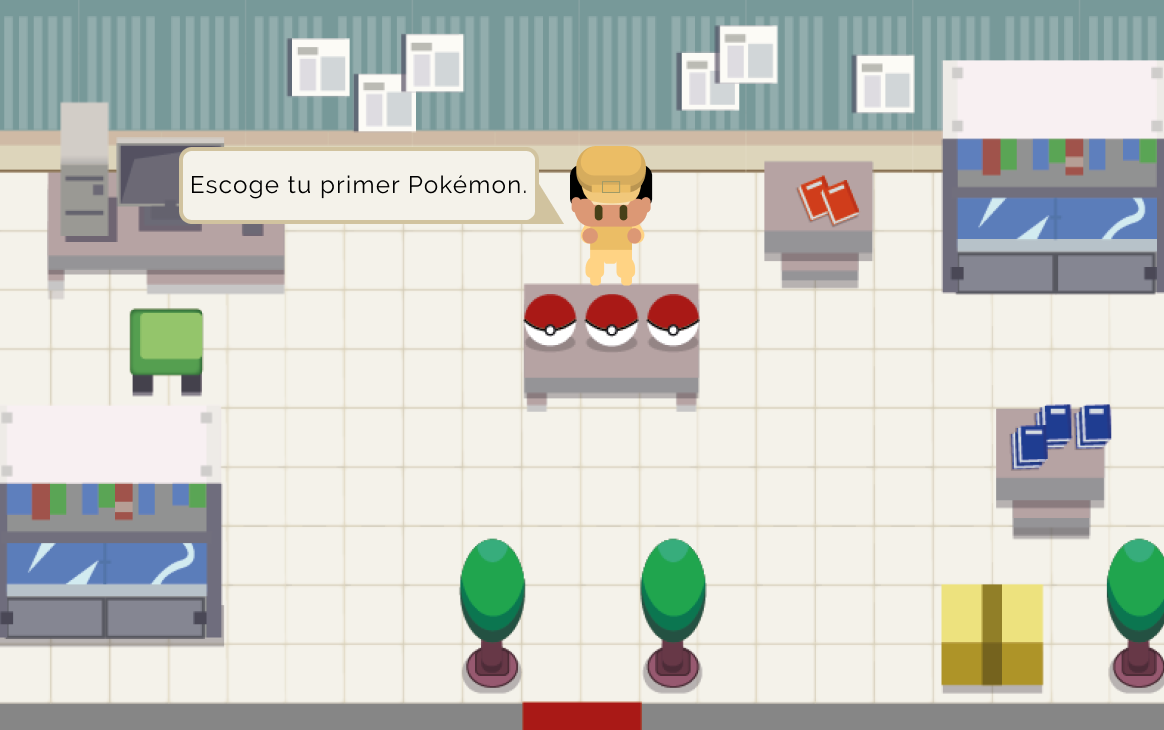
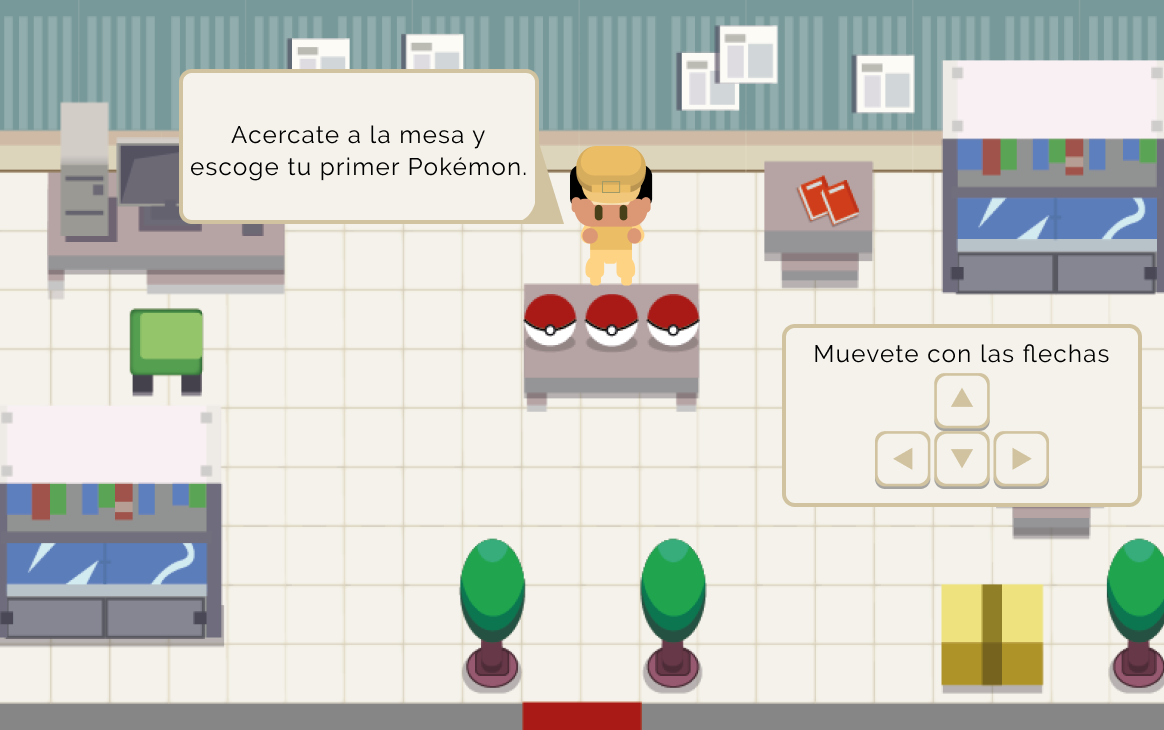
el jugador debe acercarse a la  mesa

Changed region(s): [[0.6495, 0.4219, 0.9897, 0.6932], [0.1546, 0.0904, 0.4948, 0.3014]]

diff --git a/src/Model/Juego.java b/src/Model/Juego.java
@@ -45,10 +45,8 @@ public class Juego {
 
 	Bueno perso;
 	PImage pantInicio, inicioBlanco, inicioR, pantRegistro, pantLab, pantElige,pokeSalir, 
-		   pantCampo, pantBatalla, pantPokedex,aceptar,pokebolita,charmanderF,SnivyF,squirtleF,
+		   pantCampo, pantBatalla, pantPokedex,aceptar,pokebolita,charmanderF,SnivyF,squirtleF, pokebola,escribeNombre,ataqueR;
 
-		   pokebola,escribeNombre;
-   pokebola, ataqueR;
 
 	
 	ControlP5 control;
@@ -237,7 +235,12 @@ public class Juego {
 				app.image(pokebolita,353+45+45,195,50,50);
 			}
 			
+			
+			
 			perso.pintar();
+			if(PApplet.dist(perso.getPosX(), perso.getPosY(),360, 250)<50) {
+				pantalla = 3;
+			}
 			
 			
 			
